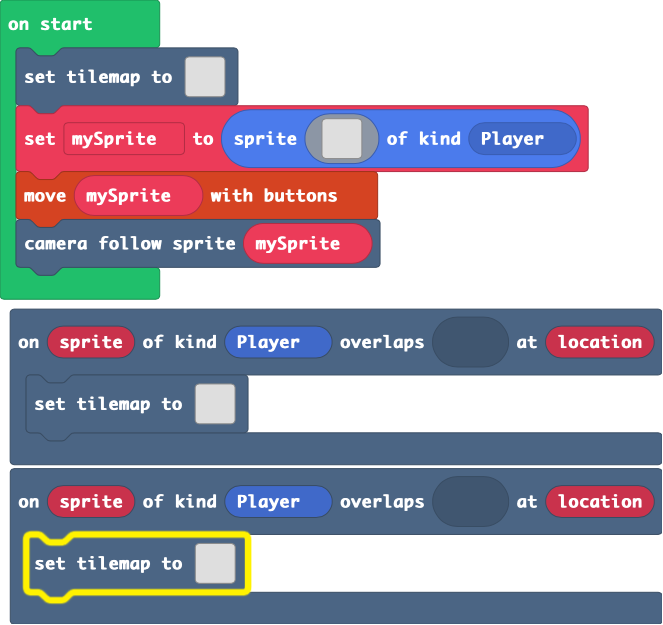
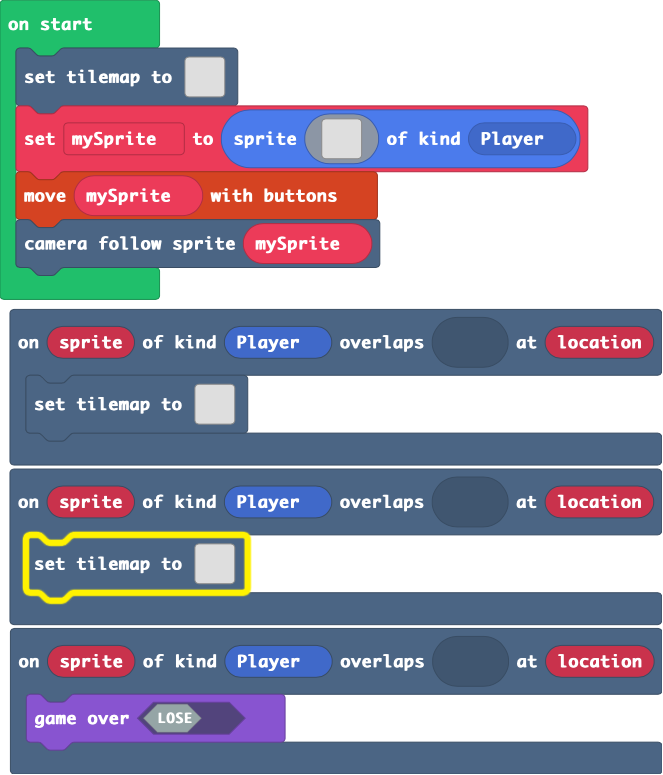
Update pxt.json, main.blocks, main.ts, tilemap.g.jres, tilemap.g.ts, images.g.jres, images.g.ts

diff --git a/tilemap.g.ts b/tilemap.g.ts
@@ -3,5 +3,73 @@ namespace myTiles {
     //% fixedInstance jres blockIdentity=images._tile
     export const transparency16 = image.ofBuffer(hex``);
 
+    helpers._registerFactory("tilemap", function(name: string) {
+        switch(helpers.stringTrim(name)) {
+            case "level1":
[1 lines of base64/hex data omitted]
+. 2 2 2 2 2 2 2 2 . 
+. 2 . . . . . . 2 . 
+. 2 . . . . . . 2 . 
+. 2 . . . . . . 2 . 
+. 2 . . . . . . 2 . 
+. 2 2 2 . . 2 2 2 . 
+. . . 2 . . 2 . . . 
+. 2 2 2 . . 2 2 2 . 
+. 2 . . . . . . 2 . 
+. 2 . . . . . . 2 . 
+. 2 . . . . . . 2 . 
+. 2 . . . . . . 2 . 
+. 2 2 2 2 2 2 2 2 . 
+`, [myTiles.transparency16,sprites.dungeon.purpleOuterNorthWest,sprites.dungeon.purpleInnerNorthEast,sprites.dungeon.purpleOuterNorth0,sprites.dungeon.purpleOuterNorthEast,sprites.dungeon.purpleOuterEast0,sprites.dungeon.purpleOuterSouthEast,sprites.dungeon.purpleOuterSouthWest,sprites.dungeon.purpleOuterSouth1,sprites.dungeon.purpleInnerNorthWest,sprites.dungeon.purpleInnerSouthEast,sprites.dungeon.purpleInnerSouthWest,sprites.dungeon.purpleOuterWest1,sprites.dungeon.purpleOuterNorth1,sprites.dungeon.floorLight0,sprites.dungeon.stairLarge], TileScale.Sixteen);
+            case "level2":
[1 lines of base64/hex data omitted]
+. 2 2 2 2 2 2 2 2 . 
+. 2 . . . . . . 2 . 
+. 2 . . . . 2 . 2 . 
+. 2 . . 2 . 2 2 2 . 
+. 2 2 . . . . . 2 . 
+. 2 . . . 2 . . 2 . 
+. 2 . 2 . . . 2 2 . 
+. 2 . . 2 . 2 . 2 . 
+. 2 . . 2 2 . . 2 . 
+. 2 2 . . . . 2 2 . 
+. 2 . 2 2 . . 2 2 . 
+. 2 . . 2 . 2 2 2 . 
+. 2 2 2 2 2 2 2 2 . 
+`, [myTiles.transparency16,sprites.dungeon.purpleOuterNorthEast,sprites.dungeon.purpleOuterEast0,sprites.dungeon.purpleOuterNorthWest,sprites.dungeon.purpleOuterSouthEast,sprites.dungeon.purpleOuterWest1,sprites.dungeon.purpleOuterNorth1,sprites.dungeon.purpleOuterSouthWest,sprites.dungeon.purpleOuterSouth1,sprites.dungeon.floorLight2,sprites.dungeon.floorDark0,sprites.dungeon.stairSouth], TileScale.Sixteen);
+            case "level3":
+            case "level3":return tiles.createTilemap(hex`1400140001010101010101010101000000010101010101010103030303050303030100000001030303030301010303030303030303010101010103030303030101030302030303030303030303030303030303010103030303030303030303030303030303030301010303030303030303030303030303030303030101030303030303050303030303030303030303010103050303030303030303030303030303030301010303030303030303010101010103030303030101030303030503030301040404010303030303010103030303030303030104040401030303030301010303030303030303010404040103030303030101010101010101010101010101010303030303010103030303030303030303030303030303030301010303030303030303030303030303030303030101030603030303030303030303030303030303010103030303030303030303030303030303030301010303030303030303030303030303030303030101030303030303030303030303030303030303010101010101010101010101010101010101010101`, img`
+2222222222...2222222
+2........2...2.....2
+2........22222...2.2
+2...........2..2...2
+2.........2........2
+2................2.2
+2............2.2...2
+2.........2........2
+2........22222....22
+2........2...2.2...2
+2........2...2.....2
+2........2...2...2.2
+222222222222222....2
+2..........2....2..2
+2......2......2....2
+2.........2.2....2.2
+2.......2..........2
+2....2.....2.2.2...2
+2.......2........2.2
+22222222222222222222
+`, [myTiles.transparency16,sprites.builtin.forestTiles0,sprites.castle.tileDarkGrass3,sprites.castle.tileGrass2,sprites.castle.tileGrass3,sprites.castle.saplingPine,sprites.dungeon.stairNorth], TileScale.Sixteen);
+        }
+        return null;
+    })
+
+    helpers._registerFactory("tile", function(name: string) {
+        switch(helpers.stringTrim(name)) {
+            case "transparency16":return transparency16;
+        }
+        return null;
+    })
+
 }
 // Auto-generated code. Do not edit.

diff --git a/main.ts b/main.ts
@@ -1,52 +1,13 @@
+scene.onOverlapTile(SpriteKind.Player, sprites.builtin.forestTiles0, function (sprite, location) {
+    game.over(false)
+})
 scene.onOverlapTile(SpriteKind.Player, sprites.dungeon.stairLarge, function (sprite, location) {
[1 lines of base64/hex data omitted]
-        . 2 2 2 2 2 2 2 2 . 
-        . 2 . . . . . . 2 . 
-        . 2 . . . . 2 . 2 . 
-        . 2 . . 2 . 2 2 2 . 
-        . 2 2 . . . . . 2 . 
-        . 2 . . . 2 . . 2 . 
-        . 2 . 2 . . . 2 2 . 
-        . 2 . . 2 . 2 . 2 . 
-        . 2 . . 2 2 . . 2 . 
-        . 2 2 . . . . 2 2 . 
-        . 2 . 2 2 . . 2 2 . 
-        . 2 . . 2 . 2 2 2 . 
-        . 2 2 2 2 2 2 2 2 . 
-        `, [myTiles.transparency16,sprites.dungeon.purpleOuterNorthEast,sprites.dungeon.purpleOuterEast0,sprites.dungeon.purpleOuterNorthWest,sprites.dungeon.purpleOuterSouthEast,sprites.dungeon.purpleOuterWest1,sprites.dungeon.purpleOuterNorth1,sprites.dungeon.purpleOuterSouthWest,sprites.dungeon.purpleOuterSouth1,sprites.dungeon.floorLight2,sprites.dungeon.floorDark0,sprites.dungeon.stairSouth], TileScale.Sixteen))
+    tiles.setTilemap(tilemap`level2`)
 })
 scene.onOverlapTile(SpriteKind.Player, sprites.dungeon.stairSouth, function (sprite, location) {
[1 lines of base64/hex data omitted]
-        . . . . . . . . . . 
-        . . . . . . . . . . 
-        . . . . . . . . . . 
-        . . . . . . . . . . 
-        . . . . . . . . . . 
-        . . . . . . . . . . 
-        . . . . . . . . . . 
-        . . . . . . . . . . 
-        . . . . . . . . . . 
-        . . . . . . . . . . 
-        . . . . . . . . . . 
-        . . . . . . . . . . 
-        . . . . . . . . . . 
-        `, [myTiles.transparency16,sprites.builtin.forestTiles0,sprites.castle.tileDarkGrass3], TileScale.Sixteen))
+    tiles.setTilemap(tilemap`level3`)
 })
[1 lines of base64/hex data omitted]
-    . 2 2 2 2 2 2 2 2 . 
-    . 2 . . . . . . 2 . 
-    . 2 . . . . . . 2 . 
-    . 2 . . . . . . 2 . 
-    . 2 . . . . . . 2 . 
-    . 2 2 2 . . 2 2 2 . 
-    . . . 2 . . 2 . . . 
-    . 2 2 2 . . 2 2 2 . 
-    . 2 . . . . . . 2 . 
-    . 2 . . . . . . 2 . 
-    . 2 . . . . . . 2 . 
-    . 2 . . . . . . 2 . 
-    . 2 2 2 2 2 2 2 2 . 
-    `, [myTiles.transparency16,sprites.dungeon.purpleOuterNorthWest,sprites.dungeon.purpleInnerNorthEast,sprites.dungeon.purpleOuterNorth0,sprites.dungeon.purpleOuterNorthEast,sprites.dungeon.purpleOuterEast0,sprites.dungeon.purpleOuterSouthEast,sprites.dungeon.purpleOuterSouthWest,sprites.dungeon.purpleOuterSouth1,sprites.dungeon.purpleInnerNorthWest,sprites.dungeon.purpleInnerSouthEast,sprites.dungeon.purpleInnerSouthWest,sprites.dungeon.purpleOuterWest1,sprites.dungeon.purpleOuterNorth1,sprites.dungeon.floorLight0,sprites.dungeon.stairLarge], TileScale.Sixteen))
+tiles.setTilemap(tilemap`level1`)
 let mySprite = sprites.create(img`
     . . . . f f f f f . . . . . . . 
     . . . f e e e e e f . . . . . . 

diff --git a/images.g.ts b/images.g.ts
@@ -1,0 +1,36 @@
+// Auto-generated code. Do not edit.
+namespace myImages {
+
+    helpers._registerFactory("image", function(name: string) {
+        switch(helpers.stringTrim(name)) {
+            case "image1":return img`
+. . . . f f f f f . . . . . . . 
+. . . f e e e e e f . . . . . . 
+. . f d d d d e e e f . . . . . 
+. c d f d d f d e e f f . . . . 
+. c d f d d f d e e d d f . . . 
+c d e e d d d d e e b d c . . . 
+c d d d d c d d e e b d c . f f 
+c c c c c d d d e e f c . f e f 
+. f d d d d d e e f f . . f e f 
+. . f f f f f e e e e f . f e f 
+. . . . f e e e e e e e f f e f 
+. . . f e f f e f e e e e f f . 
+. . . f e f f e f e e e e f . 3 
+. . . f d b f d b f f e f . . . 
+. . . f d d c d d b b d f . . . 
+. . . . f f f f f f f f f . . . 
+`;
+        }
+        return null;
+    })
+
+    helpers._registerFactory("animation", function(name: string) {
+        switch(helpers.stringTrim(name)) {
+
+        }
+        return null;
+    })
+
+}
+// Auto-generated code. Do not edit.
